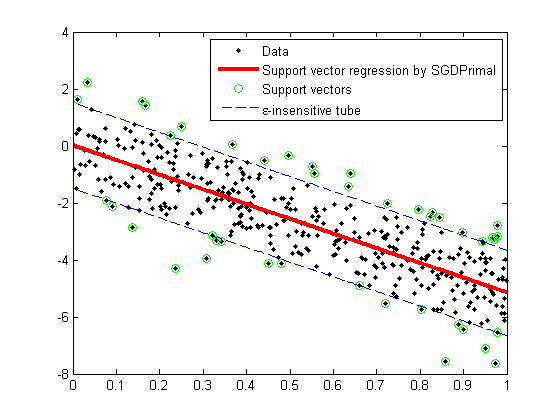
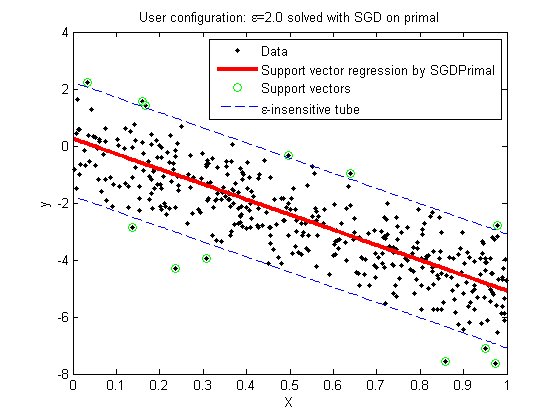
Updated the script to produce test cases.

diff --git a/demo_SVR.m b/demo_SVR.m
@@ -1,49 +1,21 @@
 clear all
 close all
 
+%% ------------------- Linear -------------------- %%
 %% Load synthetic {Xtrain,ytrain} and {Xtest,ytest}
-%load data_regressOnOne.mat
-load data_SVR.mat
+load data_regressOnOne.mat
 
 %% Call matLearn_regression_SVR to train the weight
-
-% Test with default options
-% options = [];
-% [model_SVR] = matLearn_regression_SVR(Xtrain,ytrain, options);
-
-% Test primal method with SGD
-% options.method = 'SGDPrimal';
-% options.epsilon = 1.5;
-% [model_SVR] = matLearn_regression_SVR(Xtrain,ytrain, options);
-
-% Test primal method with smoothness
-% options.method = 'SmoothPrimal';
-% options.epsilon = 2.0;
-% [model_SVR] = matLearn_regression_SVR(Xtrain,ytrain, options);
-
-% Test primal method with SGD, kernelized
-% The problem is very non-convex, rbfKernel will go into local min.
-% polyKernel will just produce nonsense
-options.method = 'SGDPrimalKernel';
-options.epsilon = 0.1;
-options.maxIter = 1000;
-options.kFunc = @(X1,X2)polyKernel(X1,X2,1,2);
-Xtrain = standardizeCols(Xtrain);
+%% Test with default options
+options = [];
 [model_SVR] = matLearn_regression_SVR(Xtrain,ytrain, options);
-
-% Test primal method with smoothness, kernelized
-% options.method = 'SmoothPrimalKernel';
-% options.epsilon = 0.1;
-% %options.kFunc = @(X1,X2)polyKernel(X1,X2,1,9);
-% options.kFunc = @(X1,X2)rbfKernel(X1,X2,1);
-% [model_SVR] = matLearn_regression_SVR(Xtrain,ytrain, options);
 
 %% Test SVR model
 yhat = model_SVR.predict(model_SVR,Xtest);
 
 %% Measure test error
 testError = mean(abs(yhat-ytest));
-fprintf('Averaged absolute test error with %s is: %.3f\n',model_SVR.name,testError);
+fprintf('Averaged absolute test error with %s is: %.3f\n\n',model_SVR.name,testError);
 
 %% Plot the performance of the SVR models with upper and lower bounds
 plotRegression1D(Xtrain,ytrain,model_SVR);
@@ -56,3 +28,120 @@ plot(Xtest(ind), yhat(ind)+model_SVR.epsilon, 'b--');
 % Plot the SVR lower bound
 plot(Xtest(ind), yhat(ind)-model_SVR.epsilon, 'b--');
 legend({'Data',model_SVR.name,'Support vectors','\epsilon-insensitive tube'});
+xlabel('X');
+ylabel('y');
+title('Default options: \epsilon=1.0 solved with SGD on primal');
+
+%% Test primal method with SGD
+options.method = 'SGDPrimal';
+options.epsilon = 2.0;
+[model_SVR] = matLearn_regression_SVR(Xtrain,ytrain, options);
+
+%% Test SVR model
+yhat = model_SVR.predict(model_SVR,Xtest);
+
+%% Measure test error
+testError = mean(abs(yhat-ytest));
+fprintf('Averaged absolute test error with %s is: %.3f\n\n',model_SVR.name,testError);
+
+%% Plot the performance of the SVR models with upper and lower bounds
+plotRegression1D(Xtrain,ytrain,model_SVR);
+% I added some more plotting abilities
+% Plot the support vectors
+plot(Xtrain(model_SVR.supportVector),ytrain(model_SVR.supportVector),'o','color','g');
+% Plot the SVR upper bound
+[~,ind] = sort(Xtest);
+plot(Xtest(ind), yhat(ind)+model_SVR.epsilon, 'b--');
+% Plot the SVR lower bound
+plot(Xtest(ind), yhat(ind)-model_SVR.epsilon, 'b--');
+legend({'Data',model_SVR.name,'Support vectors','\epsilon-insensitive tube'});
+xlabel('X');
+ylabel('y');
+title('User configuration: \epsilon=2.0 solved with SGD on primal');
+
+%% Test primal method with smoothness
+options.method = 'SmoothPrimal';
+options.epsilon = 2.0;
+[model_SVR] = matLearn_regression_SVR(Xtrain,ytrain, options);
+
+%% Test SVR model
+yhat = model_SVR.predict(model_SVR,Xtest);
+
+%% Measure test error
+testError = mean(abs(yhat-ytest));
+fprintf('Averaged absolute test error with %s is: %.3f\n\n',model_SVR.name,testError);
+
+%% Plot the performance of the SVR models with upper and lower bounds
+plotRegression1D(Xtrain,ytrain,model_SVR);
+% I added some more plotting abilities
+% Plot the support vectors
+plot(Xtrain(model_SVR.supportVector),ytrain(model_SVR.supportVector),'o','color','g');
+% Plot the SVR upper bound
+[~,ind] = sort(Xtest);
+plot(Xtest(ind), yhat(ind)+model_SVR.epsilon, 'b--');
+% Plot the SVR lower bound
+plot(Xtest(ind), yhat(ind)-model_SVR.epsilon, 'b--');
+legend({'Data',model_SVR.name,'Support vectors','\epsilon-insensitive tube'});
+xlabel('X');
+ylabel('y');
+title('User configured: \epsilon=2.0 solved with quadratic programming on smoothed primal');
+
+%% ----------------------- Non-linear ---------------------- %%
+clear all
+load data_SVR.mat
+
+% Test primal method with smoothness, rbfKernel
+options.method = 'SmoothPrimalKernel';
+options.epsilon = 0.1;
+options.kFunc = @(X1,X2)rbfKernel(X1,X2,1);
+[model_SVR] = matLearn_regression_SVR(Xtrain,ytrain, options);
+
+%% Test SVR model
+yhat = model_SVR.predict(model_SVR,Xtest);
+
+%% Measure test error
+testError = mean(abs(yhat-ytest));
+fprintf('Averaged absolute test error with %s is: %.3f\n\n',model_SVR.name,testError);
+
+%% Plot the performance of the SVR models with upper and lower bounds
+plotRegression1D(Xtrain,ytrain,model_SVR);
+% Plot the support vectors
+plot(Xtrain(model_SVR.supportVector),ytrain(model_SVR.supportVector),'o','color','g');
+% Plot the SVR upper bound
+[~,ind] = sort(Xtest);
+plot(Xtest(ind), yhat(ind)+model_SVR.epsilon, 'b--');
+% Plot the SVR lower bound
+plot(Xtest(ind), yhat(ind)-model_SVR.epsilon, 'b--');
+legend({'Data',model_SVR.name,'Support vectors','\epsilon-insensitive tube'});
+xlabel('X');
+ylabel('y');
+title('User configuration: \epsilon=0.1 modeled with rbfKernel on smoothed primal');
+
+%% Test primal method with smoothness, polyKernel
+options.method = 'SmoothPrimalKernel';
+options.epsilon = 0.1;
+options.kFunc = @(X1,X2)polyKernel(X1,X2,1,9);
+[model_SVR] = matLearn_regression_SVR(Xtrain,ytrain, options);
+
+%% Test SVR model
+yhat = model_SVR.predict(model_SVR,Xtest);
+
+%% Measure test error
+testError = mean(abs(yhat-ytest));
+fprintf('Averaged absolute test error with %s is: %.3f\n\n',model_SVR.name,testError);
+
+%% Plot the performance of the SVR model
+plotRegression1D(Xtrain,ytrain,model_SVR);
+% I added some more plotting abilities
+% Plot the support vectors
+plot(Xtrain(model_SVR.supportVector),ytrain(model_SVR.supportVector),'o','color','g');
+% Plot the SVR upper bound
+[~,ind] = sort(Xtest);
+plot(Xtest(ind), yhat(ind)+model_SVR.epsilon, 'b--');
+% Plot the SVR lower bound
+plot(Xtest(ind), yhat(ind)-model_SVR.epsilon, 'b--');
+legend({'Data',model_SVR.name,'Support vectors','\epsilon-insensitive tube'});
+xlabel('X');
+ylabel('y');
+title('User configuration: \epsilon=0.1 modeled with polyKernel on smoothed primal');
+

diff --git a/matLearn_regression_SVR.m b/matLearn_regression_SVR.m
@@ -13,8 +13,6 @@ function [model] = matLearn_regression_SVR(X,y,options)
 %   - method:    'SGDPrimal'          - solve the primal problem with SGD
 %                'SmoothPrimal'       - solve the smoothed primal quadratic
 %                                       programming problem
-%                'SGDPrimalKernel'    - solve the primal problem with SGD,
-%                                       kernelized
 %                'SmoothPrimalKernel' - solve the smoothed primal quadratic
 %                                       programming problem, kernelized
 %                (default: 'SGDPrimal')
@@ -62,17 +60,6 @@ elseif (strcmp(method,'SmoothPrimal'))
     p.epsilon = epsilon;
     % train primal problem with smoothness
     [model] = SmoothPrimal(X,y, p);
-elseif (strcmp(method,'SGDPrimalKernel')) 
-    % setup parameters
-    p.method = method;
-    p.C = C;
-    p.lambda = lambda; 
-    p.epsilon = epsilon;
-    p.maxIter = maxIter;
-    p.threshold = threshold;
-    p.kFunc = kFunc;
-    % train primal problem with SGD, kernelized
-    [model] = SGDPrimalKernel(X,y, p);
 elseif (strcmp(method,'SmoothPrimalKernel')) 
     % setup parameters
     p.method = method;
@@ -223,77 +210,8 @@ w = wv(1:nTrain);
 fprintf('Optimized function value: %f\n',FVAL);
 
 % Setup model.
-model.name = 'Support vector regression by SmoothPrimal';
+model.name = 'Support vector regression by SmoothPrimalKernel';
 model.w = w;
-model.epsilon = p.epsilon;
-model.kFunc = @(Xhat)p.kFunc(Xhat,X(:,2));
-model.supportVector = abs(K*model.w - y) >= model.epsilon;
-model.predict = @predictKernel;
-end
-
-%% Using stochastic gradient descent to solve the primal,
-%   kernelized.
-function [model] = SGDPrimalKernel(X,y, p)
-% Calculate kernel matrix
-K = p.kFunc(X,X);
-% Add a bias variable
-nTrain = size(X,1);
-X = [ones(nTrain,1) X];
-% Initial value of v
-v = zeros(nTrain,1);
-
-% Evaluate function and gradient at initial point
-fprintf('Support vector regression by SGDPrimal, kernelized...\n');
-f = p.C*sum(max(0,abs(y-K*v)-p.epsilon)) + p.lambda*(v'*K*v)/2;
-fprintf('Initial function value: %f\n',f);
-
-% Optimize primal problem using stochastic gradient descent method
-iter = 0;
-v_old = ones(nTrain,1)*Inf;
-% Check if the difference between successive w is small enough.
-% Also adding iter < p.maxIter/10 to ensure I have at least went through
-% that many iterations.
-while abs(sum(v_old - v)) > p.threshold || iter < p.maxIter/10
-    iter = iter + 1;
-    v_old = v;
-    % Choose a random integer between 1 and N
-    i = ceil(nTrain*rand);
-    
-    % Compute a subgradient with respect to example i
-    tmp1 = v(i)*K(:,i);
-    tmp2 = v.*K(:,i);
-    tmp = tmp1;
-    tmp(i) = tmp(i)+sum(tmp2);
-    g = p.lambda/2*tmp;
-    if (abs((v'*K(:,i))-y(i)) <= p.epsilon)
-        sg = g;
-    elseif ( y(i)-(v'*K(:,i)) > 0 )
-        sg = -p.C*K(:,i)+g;
-    else
-        sg = +p.C*K(:,i)+g;
-    end
-    
-    % Step size update
-    alpha = p.C/iter;
-    
-    % Update parameters
-    v = v - alpha*sg;
-    
-    % Check if exceed maximum iterations
-    if (iter > p.maxIter)
-        fprintf('Maximum iterations...\n');
-        break;
-    end
-    
-end
-
-% Evaluate function and gradient at ending point
-f = p.C*sum(max(0,abs(y-K*v)-p.epsilon)) + p.lambda*(v'*K*v)/2;
-fprintf('Optimized function value: %f\n',f);
-
-% Setup model.
-model.name = 'Support vector regression by SGDPrimal, kernelized';
-model.w = v;
 model.epsilon = p.epsilon;
 model.kFunc = @(Xhat)p.kFunc(Xhat,X(:,2));
 model.supportVector = abs(K*model.w - y) >= model.epsilon;
